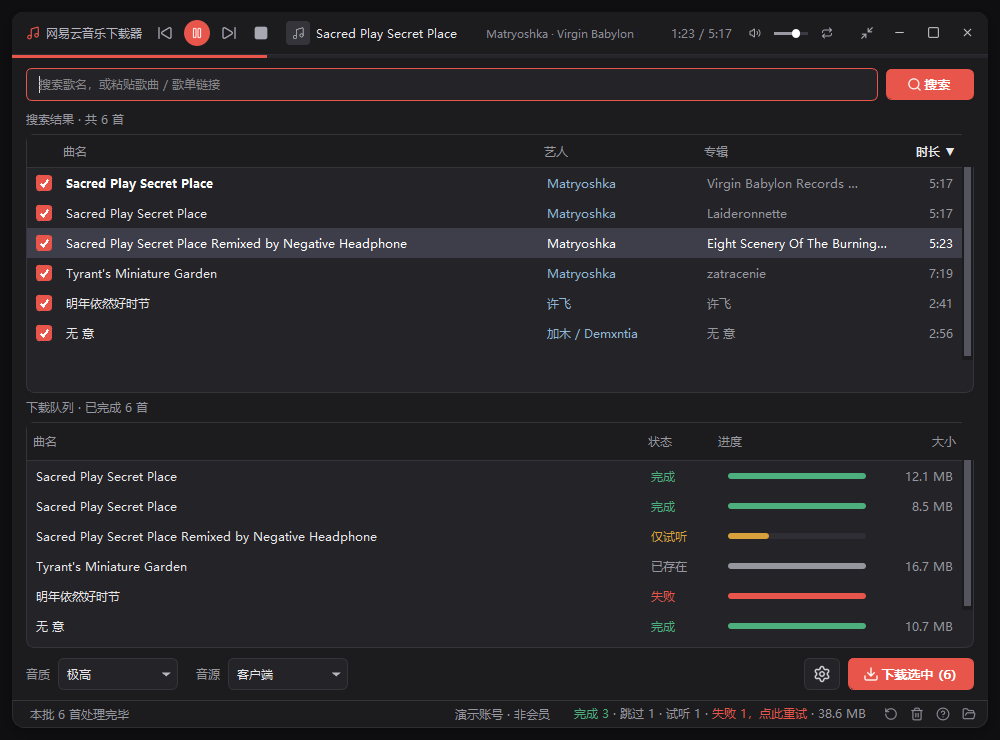
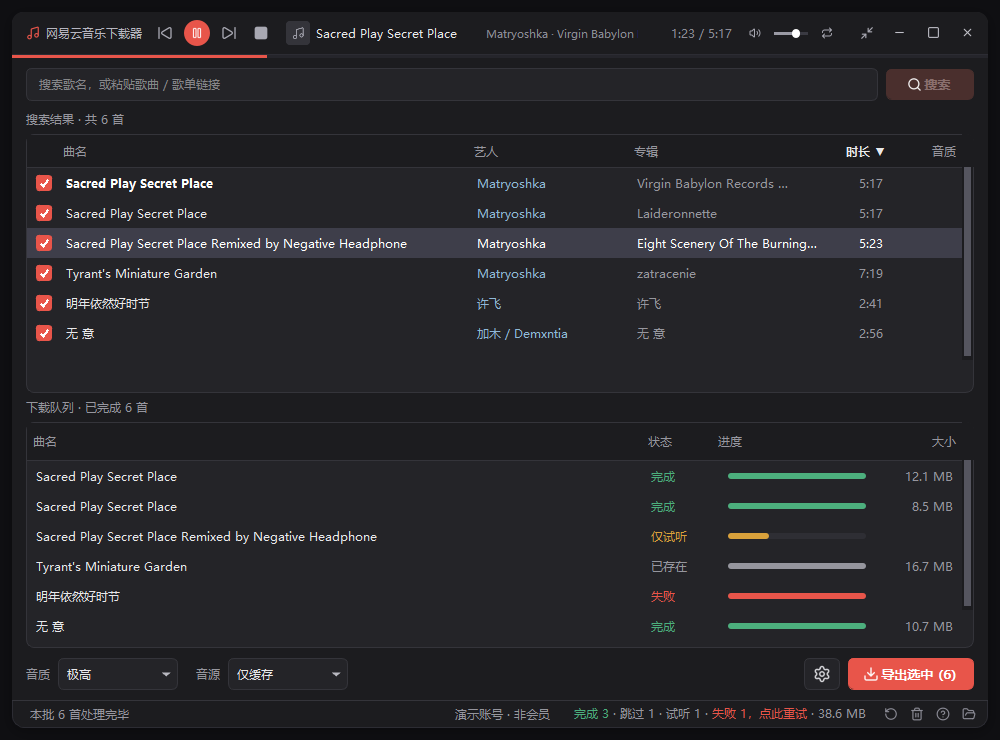
缓存视图按钮改为导出，修紧凑模式切音源后列宽错位
- 按音源切换文案：缓存=导出选中/仅导出此曲，其它=下载选中/下载此曲
- FluidTable.setColumnHidden 自动 refit；进出紧凑模式后补一次重算
- 滚动条显隐变化也触发重算，避免差出一条滚动条的宽度
- 扫描结束若已切走音源，不再把缓存列表顶上来
- 版本 1.2.2

diff --git a/gui/main.py b/gui/main.py
@@ -1297,6 +1297,9 @@ class MainWindow(QMainWindow):
         for col in (2, 3):
             self.result_table.setColumnHidden(col, True)
         self.result_table.setColumnWidth(4, 56)
+        self.result_table.refit()
+        # 窗口尺寸还在收尾，等布局稳定后再拉一次，否则会差出一个滚动条的宽度
+        QTimer.singleShot(80, self.result_table.refit)
         # 音源/音质只留选择器本身，标签藏起来省宽度
         self.level_label.hide()
         self.source_label.hide()
@@ -1343,6 +1346,8 @@ class MainWindow(QMainWindow):
         self.result_table.setColumnWidth(2, 160)
         self.result_table.setColumnWidth(3, 200)
         self.result_table.setColumnWidth(4, 88)
+        self.result_table.refit()
+        QTimer.singleShot(80, self.result_table.refit)
         self.level_label.show()
         self.source_label.show()
         # 解除紧凑时的定宽与样式覆盖，回到 QSS 的 min-width 与内容自适应
@@ -2131,6 +2136,9 @@ class MainWindow(QMainWindow):
         self._pools["cache"] = (list(songs), title, True)
         self._has_more = False
         self.btn_more.hide()
+        # 扫描是异步的：用户可能已经切回别的音源了，这时别再把缓存列表顶上来
+        if self._current_source() != "cache":
+            return
         self._apply_view()
         self._fade_in(self.result_table)
         if songs:
@@ -2348,12 +2356,16 @@ class MainWindow(QMainWindow):
                 picked.append(song)
         return picked
 
+    def _verb(self) -> str:
+        """缓存视图其实是把本地 .uc 解密复制出来，全程不联网，叫「导出」更准确。"""
+        return "导出" if self._current_source() == "cache" else "下载"
+
     def _update_download_button(self, *_args) -> None:
         if self.batch is not None:
             return
         count = len(self._selected_songs())
-        # 紧凑模式一行要塞下两个选择器，文案缩到「下载 (n)」
-        verb = "下载" if self._mini else "下载选中"
+        # 紧凑模式一行要塞下两个选择器，文案缩到「导出 (n)」
+        verb = self._verb() if self._mini else f"{self._verb()}选中"
         self.btn_download.setText(f"{verb} ({count})" if count else verb)
         self.btn_download.setMinimumWidth(84 if self._mini else 126)
         self.btn_download.setIcon(icons.icon("download", "#ffffff", 18))
@@ -2388,8 +2400,8 @@ class MainWindow(QMainWindow):
         # 实际停的是全局播放。播放条上已经有独立的停止按钮了。
         menu.addSeparator()
         for text, key, enabled in (
-            (f"下载选中（{picked} 首）", "download", picked > 0 and idle),
-            ("仅下载此曲", "one", idle),
+            (f"{self._verb()}选中（{picked} 首）", "download", picked > 0 and idle),
+            (f"仅{self._verb()}此曲", "one", idle),
         ):
             action = menu.addAction(text)
             action.setData(key)
@@ -2985,6 +2997,8 @@ class MainWindow(QMainWindow):
         key = self.source_box.currentData()
         self.settings.setValue("source", key)
         self.status_label.setText(f"音源：{SOURCE_LABEL.get(key, key)}")
+        # 文案跟着音源走（缓存是「导出」），扫缓存是异步的，先立刻换掉按钮字
+        self._update_download_button()
         # 每次切到「仅本地缓存」都重扫：客户端那边可能刚缓存了新歌，
         # 或者用户清过缓存，吃旧结果会显示已经不存在的东西
         if key == "cache":

diff --git a/gui/help.py b/gui/help.py
@@ -38,7 +38,7 @@ HELP_HTML = f"""
 <p style="{_TEXT}"><span style="{_KEY}">全选</span>　点表头最左边那一格（空白列头）可以在全选和取消之间切换；右键菜单里也有「全选」「取消全选」。这一格没有文字，所以不太好发现。</p>
 <p style="{_TEXT}"><span style="{_KEY}">排序</span>　点「曲名 / 艺人 / 专辑 / 时长」列头：第一次升序，第二次降序，第三次恢复原始顺序。当前排序的列会加粗并带箭头。</p>
 <p style="{_TEXT}"><span style="{_KEY}">播放</span>　双击任意一行直接播放；顶部播放条会显示封面、歌名和进度。</p>
-<p style="{_TEXT}"><span style="{_KEY}">右键菜单</span>　播放、仅播放此曲、下载选中、仅下载此曲（只勾这一首并立即开始）、复制歌曲链接、「歌名 - 歌手」、歌曲 ID、全选、取消全选、清空当前结果、在浏览器打开。</p>
+<p style="{_TEXT}"><span style="{_KEY}">右键菜单</span>　播放、仅播放此曲、下载选中 / 导出选中、仅下载此曲（只勾这一首并立即开始）、复制歌曲链接、「歌名 - 歌手」、歌曲 ID、全选、取消全选、清空当前结果、在浏览器打开。</p>
 <p style="{_TEXT}"><span style="{_KEY}">筛选</span>　在「仅本地缓存」音源下，搜索框只过滤本地列表，不会发出任何网络请求。</p>
 
 <p style="{_TITLE}">下载与音源</p>
@@ -47,6 +47,7 @@ HELP_HTML = f"""
 <p style="{_TEXT}"><span style="{_KEY}">网页接口</span>　以网页身份请求，区别在于音质和无法使用免费听歌，不是 VIP 无法下载完整版。</p>
 <p style="{_TEXT}"><span style="{_KEY}">仅本地缓存</span>　完全不发请求，只列出客户端已经缓存的歌曲，没网络也能用。</p>
 <p style="{_TEXT}"><span style="{_KEY}">转 mp3</span>　在设置里开启。转码按源码率上浮一档（如 96k AAC → 160k mp3），不会提升音质，只是换容器。</p>
+<p style="{_TEXT}"><span style="{_KEY}">仅缓存视图</span>　这里的按钮叫「导出」：客户端已经缓存过的歌，只是把本地 .uc 解密复制到下载目录，全程不联网，所以既不消耗流量也不受会员限制。</p>
 <p style="{_TEXT}"><span style="{_KEY}">下载队列</span>　显示每首的进度、状态、大小。完成后在队列里右键可以播放、打开所在文件夹、复制文件路径；双击也能直接播放。</p>
 <p style="{_TEXT}"><span style="{_KEY}">打开目录</span>　状态栏最右侧的文件夹图标，随时打开下载目录，不用等下载完成。</p>
 <p style="{_TEXT}"><span style="{_KEY}">失败重试</span>　点状态栏汇总里的「失败 N」直接重下失败项；队列右键也有「重试失败」。</p>

diff --git a/gui/table.py b/gui/table.py
@@ -58,6 +58,8 @@ class FluidTable(QTableWidget):
         policy = Qt.ScrollBarAlwaysOff if self.rowCount() == 0 else Qt.ScrollBarAlwaysOn
         if self.verticalScrollBarPolicy() != policy:
             self.setVerticalScrollBarPolicy(policy)
+            # 滚动条显隐会改变视口宽度，弹性列得跟着重算
+            self._fill_fluid()
         self._place_corner()
 
     def _place_corner(self) -> None:
@@ -102,6 +104,19 @@ class FluidTable(QTableWidget):
         # 这里每次绘制前对一眼几何，不对就按回去，成本是四次整数比较
         super().paintEvent(event)
         self._place_corner()
+
+    def refit(self) -> None:
+        """外部调完 setColumnWidth 之后叫一次，把弹性列重新拉满。"""
+        self._fill_fluid()
+
+    def setColumnHidden(self, column: int, hidden: bool) -> None:
+        """列显隐变化后重算弹性列宽度。
+
+        隐藏/显示列不会触发 resizeEvent，光靠那个钩子的话，切音源或进出紧凑
+        模式之后曲名列还是旧宽度，右边会空出一截，滚动条也跟着偏。
+        """
+        super().setColumnHidden(column, hidden)
+        self._fill_fluid()
 
     def _fill_fluid(self) -> None:
         """把视口剩余宽度给弹性列，其余列保持用户设定的宽度。"""

diff --git a/ncm/__init__.py b/ncm/__init__.py
@@ -1,7 +1,7 @@
 """网易云音乐下载工具核心包。"""
 from __future__ import annotations
 
-__version__ = "1.2.1"
+__version__ = "1.2.2"
 
 from .backend import Backend, BackendError, LocalBackend
 from .models import AudioSource, Playlist, Song

diff --git a/CHANGELOG.md b/CHANGELOG.md
@@ -1,5 +1,17 @@
 # 版本记录
 
+## v1.2.2 — 2026-11-05
+
+### 优化
+
+- **缓存视图的按钮改叫「导出」**：那个动作是把客户端已缓存的 `.uc` 在本地解密复制出来，
+  全程不联网，叫「下载」名不副实。现在按音源切换文案：缓存视图是「导出选中（N 首）」
+  「仅导出此曲」，其他视图仍是「下载选中」「下载此曲」；紧凑模式相应显示「导出 (n)」。
+- **修掉紧凑模式下切音源后列宽错位**：隐藏/显示列不触发 `resizeEvent`，弹性列不会重算，
+  曲名列右边会空出一截、滚动条位置也跟着偏。`FluidTable.setColumnHidden` 现在会自动
+  refit，进出紧凑模式后再补一次，滚动条显隐也会触发重算。
+- 缓存扫描是异步的：切走之后再扫完，不再把缓存列表顶到当前视图上。
+
 ## v1.2.1 — 2026-11-05
 
 ### 优化
